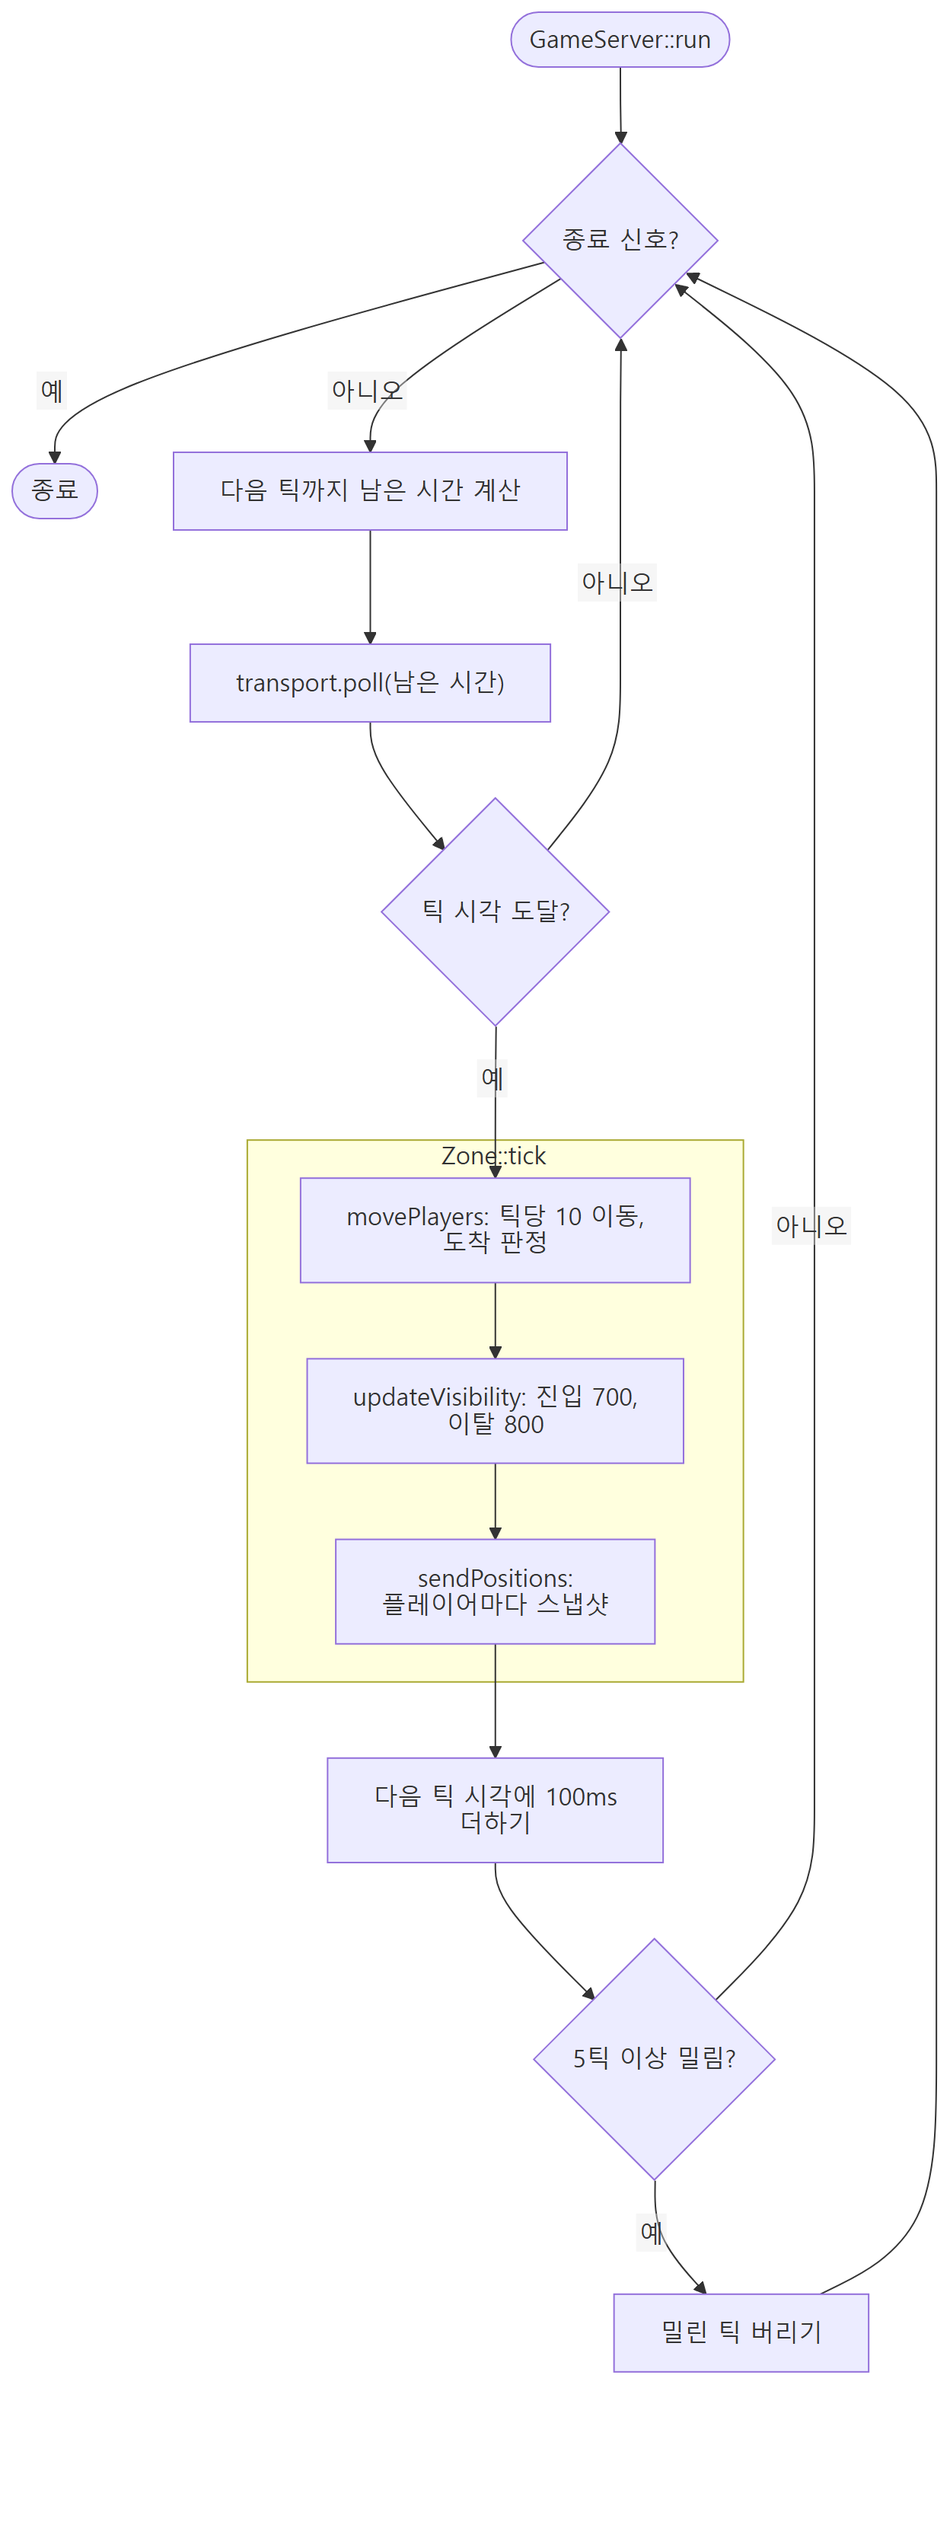
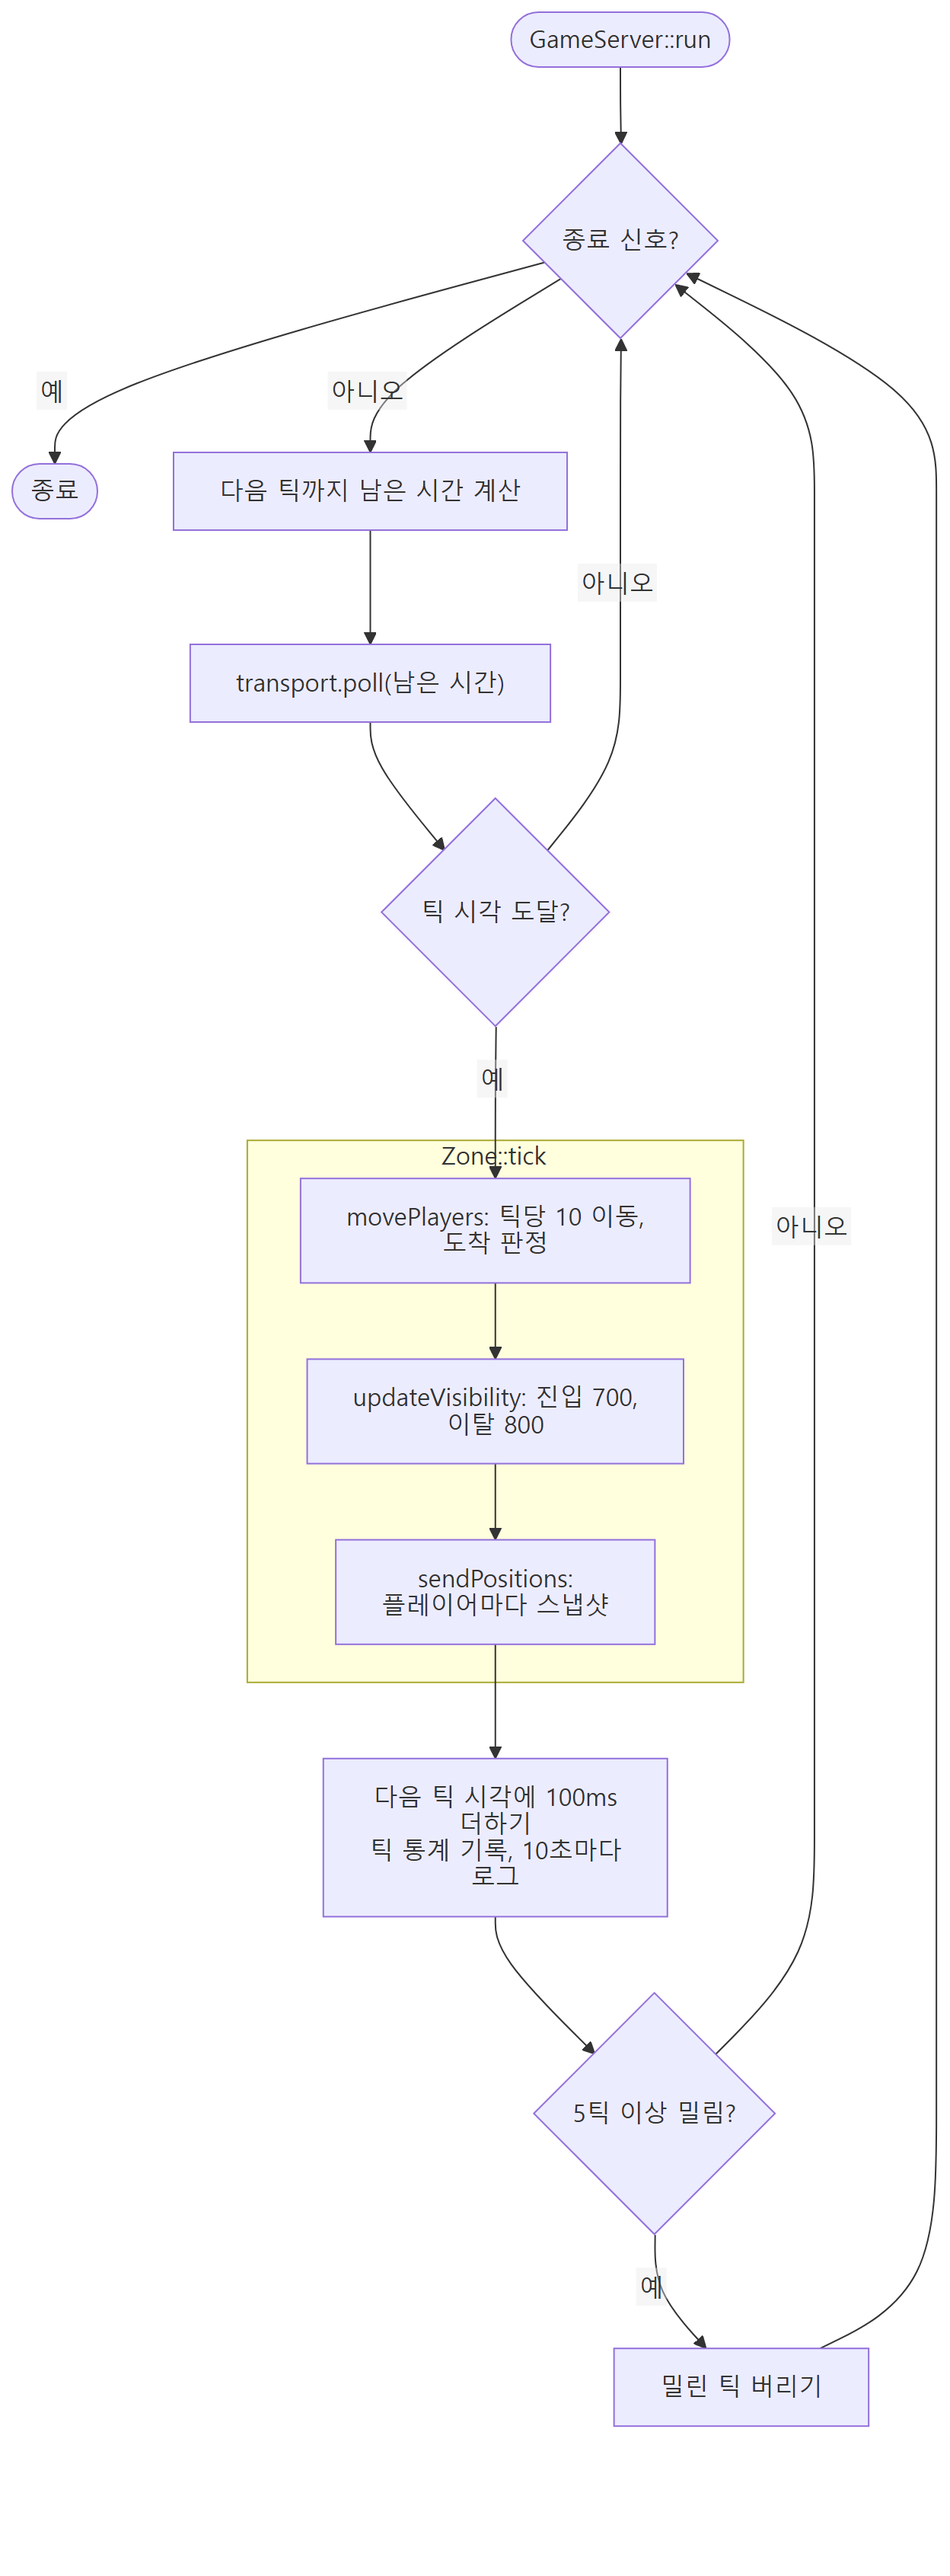
[접속과 이동] 틱 간격과 처리 시간 로그 추가
- 10초마다 틱 간격 최대와 처리 시간 최대를 기록

diff --git a/try_mmo/game/GameServer.cpp b/try_mmo/game/GameServer.cpp
@@ -22,6 +22,39 @@ constexpr milliseconds kTickInterval{100};
 constexpr int kMaxCatchUpTicks = 5;
 constexpr std::chrono::seconds kRequestWindow{1};
 constexpr int kMaxRequestsPerWindow = 20;
+constexpr int kTickStatsPeriod = 100;  // 10초
+
+// 틱 간격과 처리 시간의 최대값을 모아 주기마다 로그로 남긴다.
+class TickStats
+{
+public:
+    void record(Clock::time_point start, Clock::duration cost)
+    {
+        if (lastStart_ != Clock::time_point{})
+        {
+            maxInterval_ = std::max(maxInterval_, start - lastStart_);
+        }
+        lastStart_ = start;
+        maxCost_ = std::max(maxCost_, cost);
+
+        if (++count_ < kTickStatsPeriod)
+        {
+            return;
+        }
+
+        logInfo("tick stats: maxIntervalUs=" + std::to_string(duration_cast<microseconds>(maxInterval_).count())
+                + " maxCostUs=" + std::to_string(duration_cast<microseconds>(maxCost_).count()));
+        count_ = 0;
+        maxInterval_ = {};
+        maxCost_ = {};
+    }
+
+private:
+    Clock::time_point lastStart_;
+    Clock::duration maxInterval_{};
+    Clock::duration maxCost_{};
+    int count_ = 0;
+};
 
 proto::Vec2 toMessage(Vec2 value)
 {
@@ -59,6 +92,7 @@ void GameServer::run(const std::atomic<bool>& stop)
 {
     // 단일 스레드 루프: 다음 틱까지 입출력을 처리하고, 시간이 되면 틱을 돌린다.
     auto nextTick = Clock::now() + kTickInterval;
+    TickStats stats;
     while (!stop.load(std::memory_order_relaxed))
     {
         const auto wait = ceil<milliseconds>(nextTick - Clock::now());
@@ -74,6 +108,7 @@ void GameServer::run(const std::atomic<bool>& stop)
         nextTick += kTickInterval;
 
         const auto tickCost = Clock::now() - now;
+        stats.record(now, tickCost);
         if (tickCost >= kTickInterval)
         {
             logWarn("tick " + std::to_string(zone_.currentTick()) + " took "
